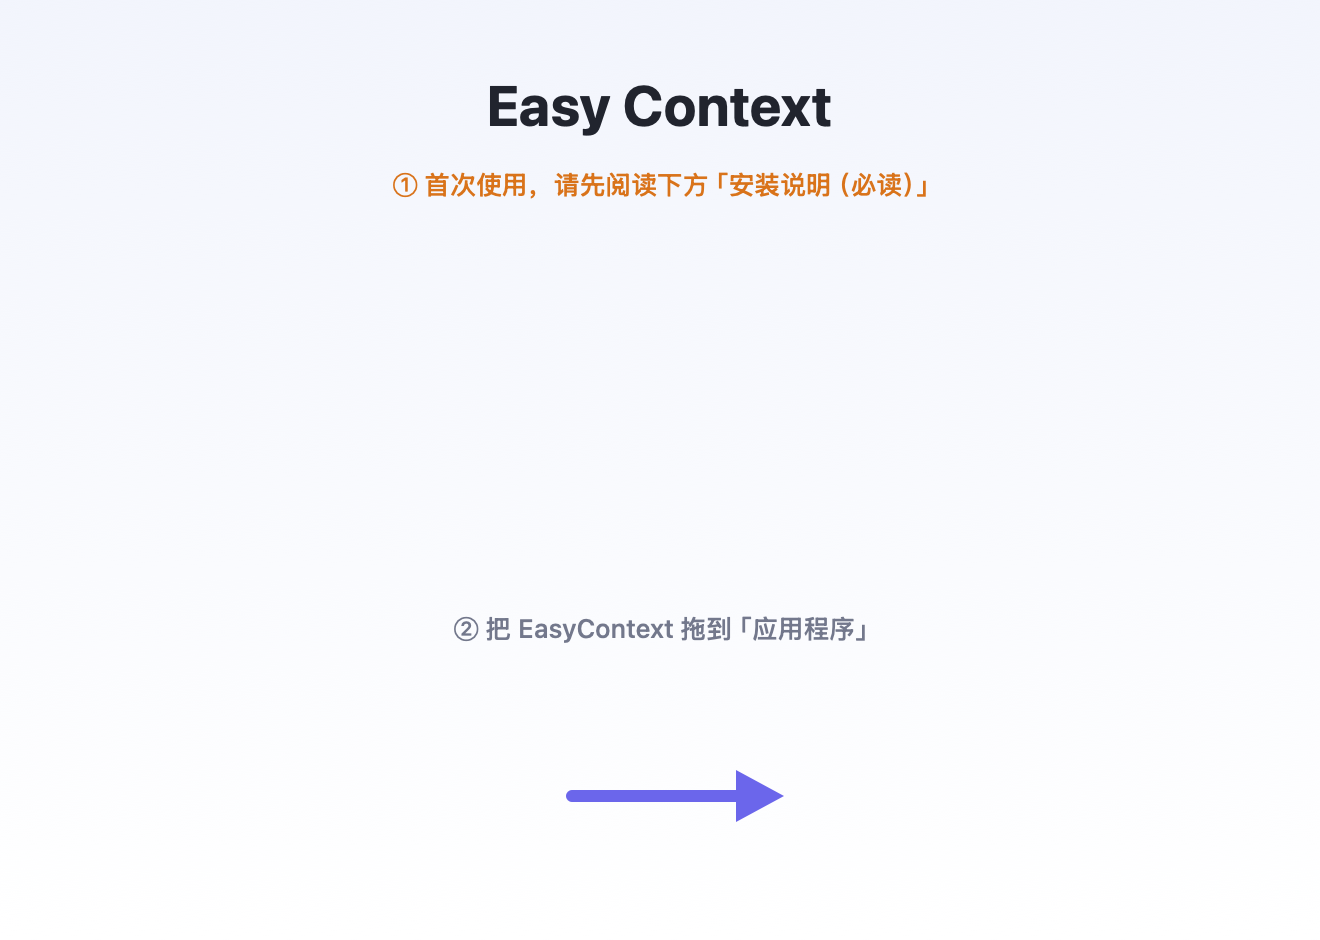
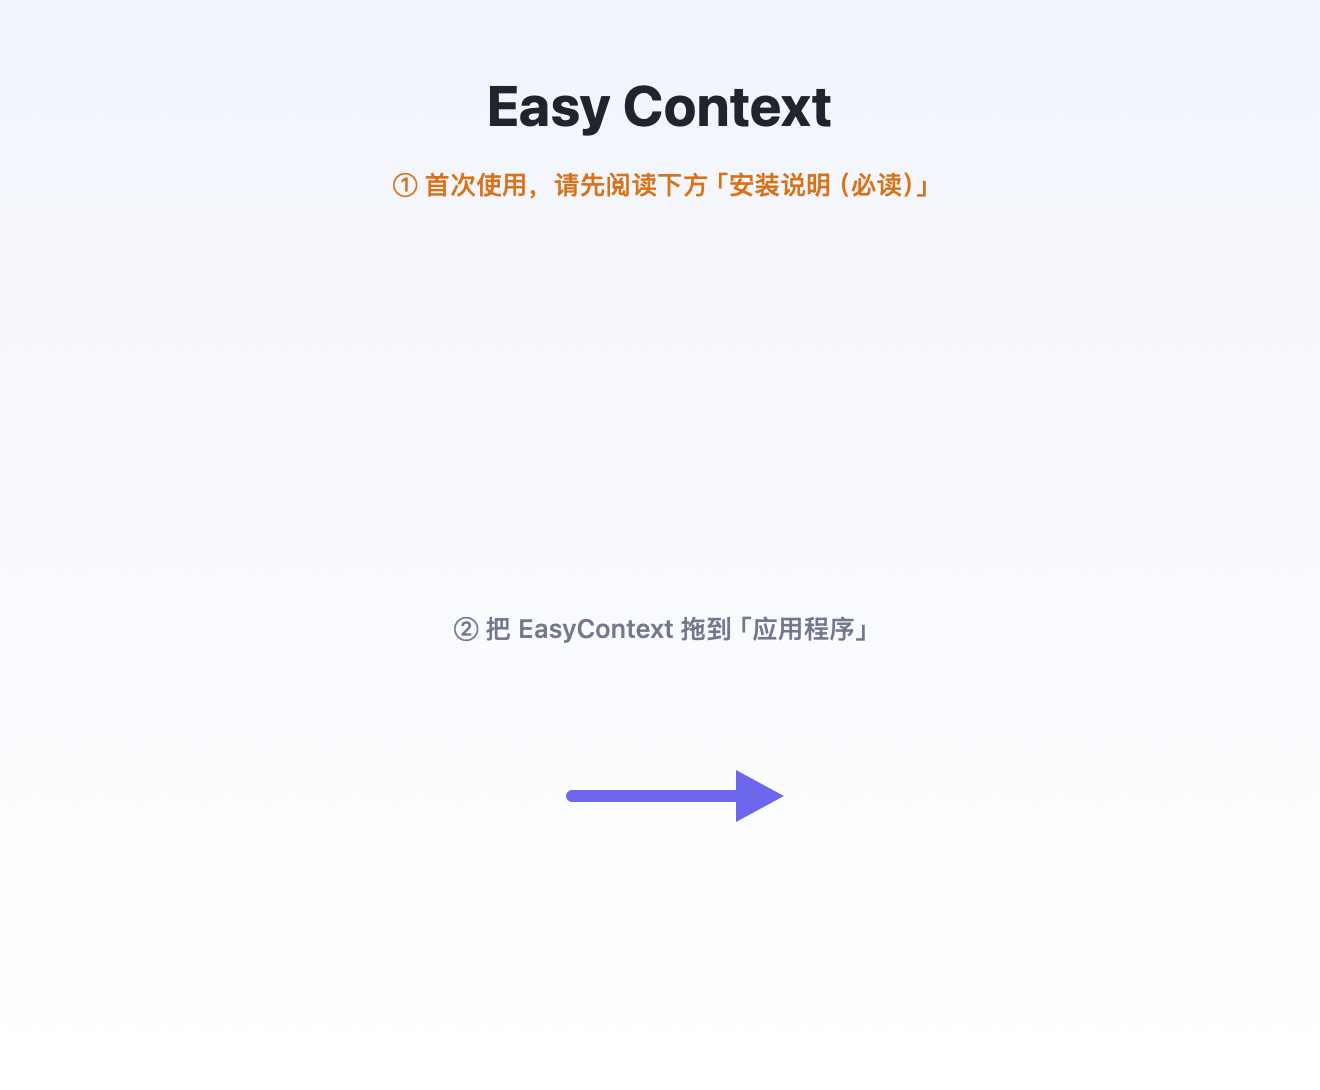
fix(app): 设置页列表图标左对齐优化；DMG 窗口高度 545 去掉滚动条
- 列表改 plain 样式 + listRowInsets leading 0，App 图标更贴近分类标题左缘。
- DMG 窗口/背景高度提到 545，打开不再出现滚动条。

diff --git a/EasyContext/ContentView.swift b/EasyContext/ContentView.swift
@@ -82,9 +82,11 @@ struct ContentView: View {
                     appRow(entry, category: category)
                         .tag(entry.bundleId)
                         .listRowSeparator(.hidden) // 应用之间不要横分隔线
+                        .listRowInsets(EdgeInsets(top: 5, leading: 0, bottom: 5, trailing: 0))
                 }
             }
-            .listStyle(.inset)
+            .listStyle(.plain)
+            .scrollContentBackground(.hidden)
             listFooterBar(category: category)
         }
         .frame(maxWidth: .infinity)
@@ -114,7 +116,6 @@ struct ContentView: View {
                 .toggleStyle(.switch)
                 .controlSize(.small)
         }
-        .padding(.vertical, 5)
     }
 
     // 列表底部 +/- 控件；- 仅对选中的自定义项可用（内置项不可删）。

diff --git a/packaging/make-dmg-bg.swift b/packaging/make-dmg-bg.swift
@@ -6,7 +6,7 @@ let outPath = CommandLine.arguments[2]
 
 // 逻辑窗口 660x540，输出 @2x = 1320x1080
 let scale: CGFloat = 2
-let W: CGFloat = 660, H: CGFloat = 470
+let W: CGFloat = 660, H: CGFloat = 545
 let pxW = Int(W*scale), pxH = Int(H*scale)
 
 let rep = NSBitmapImageRep(bitmapDataPlanes: nil, pixelsWide: pxW, pixelsHigh: pxH,

diff --git a/packaging/dmg-settings.py b/packaging/dmg-settings.py
@@ -23,7 +23,7 @@ if volicon:
 # 窗口与图标视图
 background = "packaging/dmg-bg.png"
 default_view = "icon-view"
-window_rect = ((200, 120), (660, 470))
+window_rect = ((200, 120), (660, 545))
 icon_size = 96
 text_size = 12
 icon_locations = {
